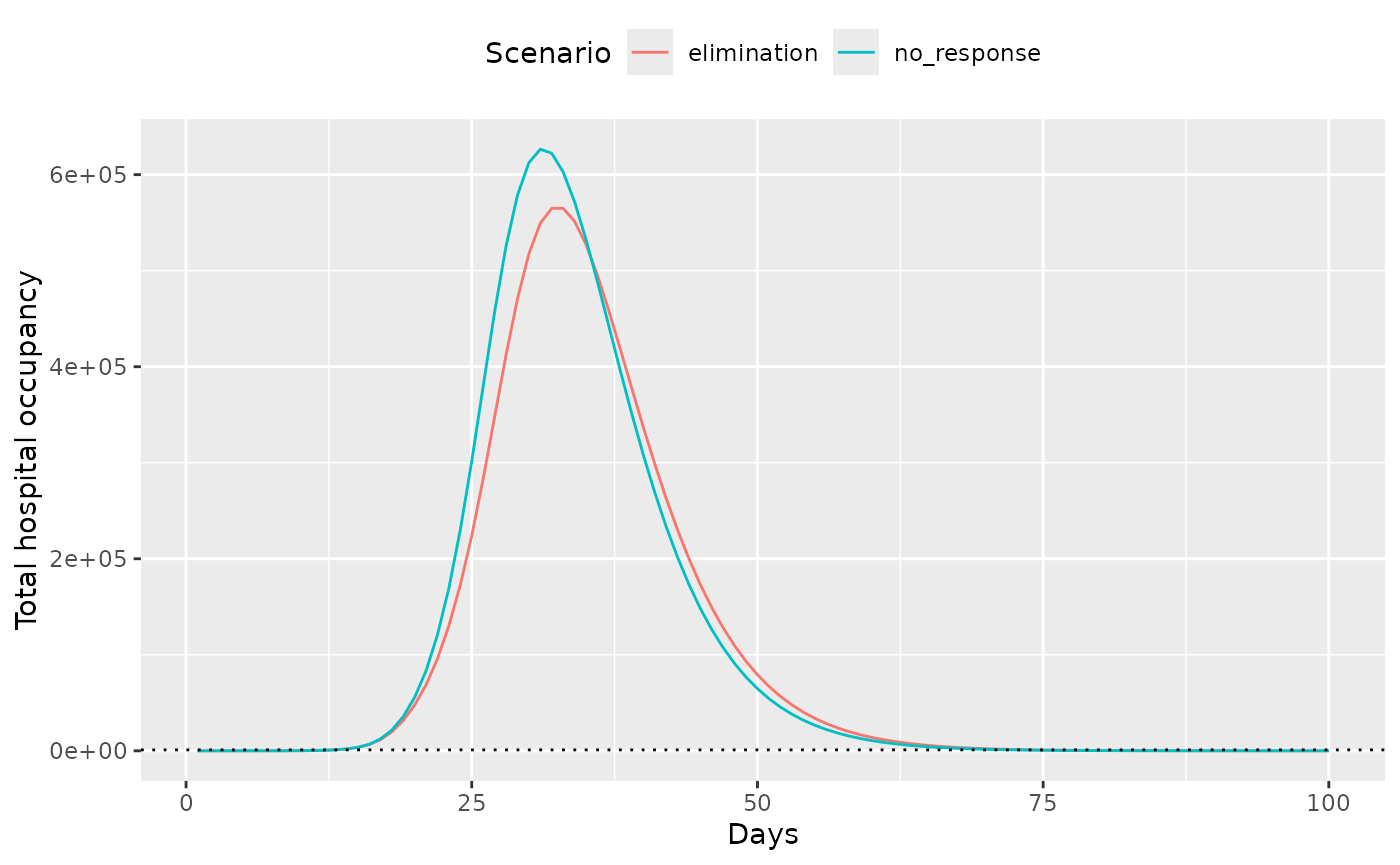
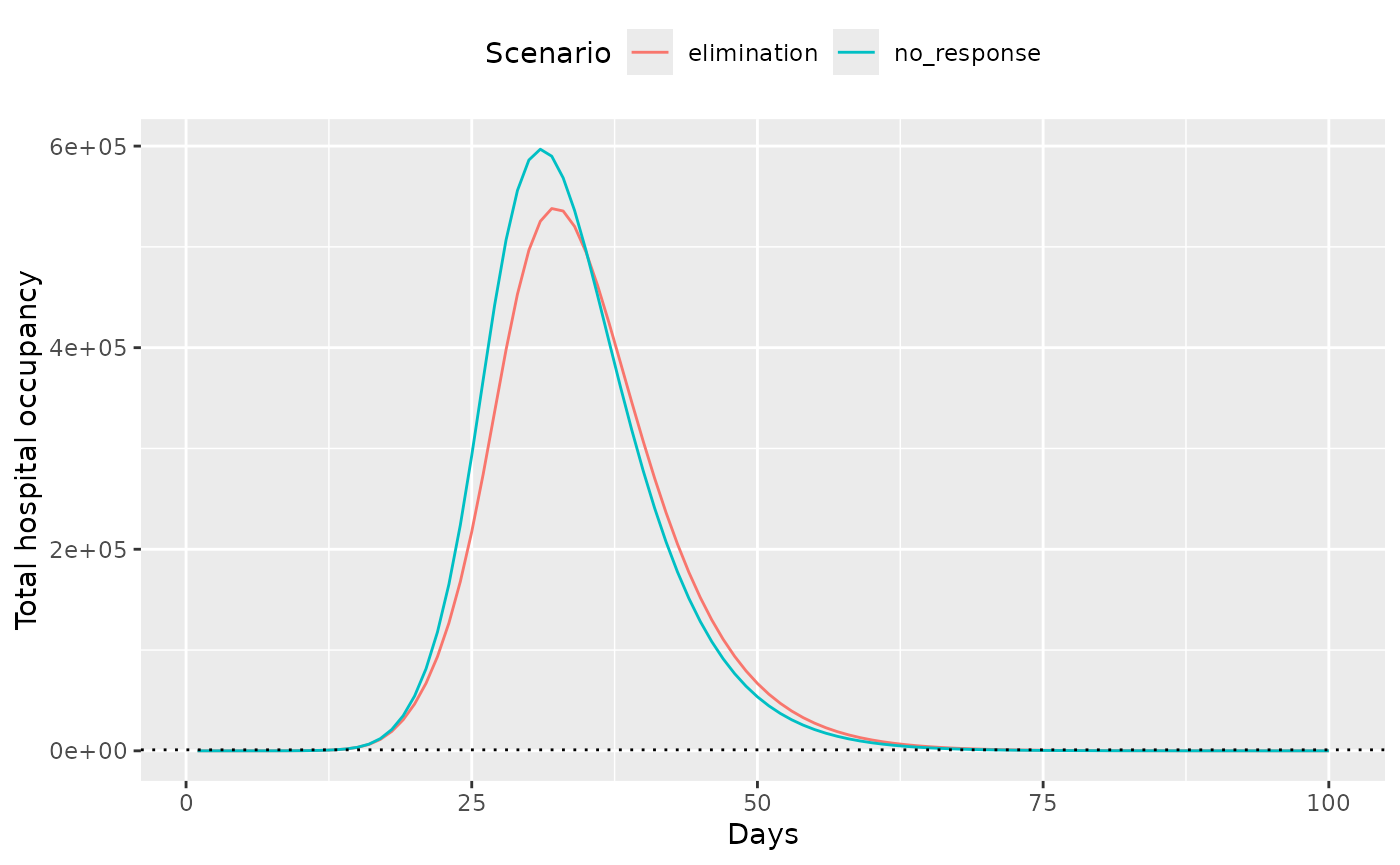
Deploying to gh-pages from @ jameel-institute/daedalus@c735ce2afaa144fed06050106aec704272ff0008 🚀

diff --git a/reference/get_costs.html b/reference/get_costs.html
@@ -7,7 +7,7 @@
 
     <a class="navbar-brand me-2" href="../index.html">daedalus</a>
 
-    <small class="nav-text text-muted me-auto" data-bs-toggle="tooltip" data-bs-placement="bottom" title="Released version">0.0.7</small>
+    <small class="nav-text text-muted me-auto" data-bs-toggle="tooltip" data-bs-placement="bottom" title="Released version">0.0.8</small>
 
 
     <button class="navbar-toggler" type="button" data-bs-toggle="collapse" data-bs-target="#navbar" aria-controls="navbar" aria-expanded="false" aria-label="Toggle navigation">
@@ -111,37 +111,37 @@ to have the same value.</p>
 <span class="r-in"><span></span></span>
 <span class="r-in"><span><span class="fu">get_costs</span><span class="op">(</span><span class="va">output</span><span class="op">)</span></span></span>
 <span class="r-out co"><span class="r-pr">#&gt;</span> $total_cost</span>
-<span class="r-out co"><span class="r-pr">#&gt;</span> [1] 739497.9</span>
+<span class="r-out co"><span class="r-pr">#&gt;</span> [1] 1080754</span>
 <span class="r-out co"><span class="r-pr">#&gt;</span> </span>
 <span class="r-out co"><span class="r-pr">#&gt;</span> $economic_costs</span>
 <span class="r-out co"><span class="r-pr">#&gt;</span> $economic_costs$economic_cost_total</span>
-<span class="r-out co"><span class="r-pr">#&gt;</span> [1] 18528.34</span>
+<span class="r-out co"><span class="r-pr">#&gt;</span> [1] 20582.91</span>
 <span class="r-out co"><span class="r-pr">#&gt;</span> </span>
 <span class="r-out co"><span class="r-pr">#&gt;</span> $economic_costs$economic_cost_closures</span>
 <span class="r-out co"><span class="r-pr">#&gt;</span> [1] 0</span>
 <span class="r-out co"><span class="r-pr">#&gt;</span> </span>
 <span class="r-out co"><span class="r-pr">#&gt;</span> $economic_costs$economic_cost_absences</span>
-<span class="r-out co"><span class="r-pr">#&gt;</span> [1] 18528.34</span>
+<span class="r-out co"><span class="r-pr">#&gt;</span> [1] 20582.91</span>
 <span class="r-out co"><span class="r-pr">#&gt;</span> </span>
 <span class="r-out co"><span class="r-pr">#&gt;</span> </span>
 <span class="r-out co"><span class="r-pr">#&gt;</span> $education_costs</span>
 <span class="r-out co"><span class="r-pr">#&gt;</span> $education_costs$education_cost_total</span>
-<span class="r-out co"><span class="r-pr">#&gt;</span> [1] 1235.451</span>
+<span class="r-out co"><span class="r-pr">#&gt;</span> [1] 1372.606</span>
 <span class="r-out co"><span class="r-pr">#&gt;</span> </span>
 <span class="r-out co"><span class="r-pr">#&gt;</span> $education_costs$education_cost_closures</span>
 <span class="r-out co"><span class="r-pr">#&gt;</span> [1] 0</span>
 <span class="r-out co"><span class="r-pr">#&gt;</span> </span>
 <span class="r-out co"><span class="r-pr">#&gt;</span> $education_costs$education_cost_absences</span>
-<span class="r-out co"><span class="r-pr">#&gt;</span> [1] 1235.451</span>
+<span class="r-out co"><span class="r-pr">#&gt;</span> [1] 1372.606</span>
 <span class="r-out co"><span class="r-pr">#&gt;</span> </span>
 <span class="r-out co"><span class="r-pr">#&gt;</span> </span>
 <span class="r-out co"><span class="r-pr">#&gt;</span> $life_years_lost</span>
 <span class="r-out co"><span class="r-pr">#&gt;</span> $life_years_lost$life_years_lost_total</span>
-<span class="r-out co"><span class="r-pr">#&gt;</span> [1] 719734.1</span>
+<span class="r-out co"><span class="r-pr">#&gt;</span> [1] 1058799</span>
 <span class="r-out co"><span class="r-pr">#&gt;</span> </span>
 <span class="r-out co"><span class="r-pr">#&gt;</span> $life_years_lost$life_years_lost_age</span>
-<span class="r-out co"><span class="r-pr">#&gt;</span>       0-4      5-19     20-65       65+ </span>
-<span class="r-out co"><span class="r-pr">#&gt;</span>  97908.78 315774.09 235561.96  70489.30 </span>
+<span class="r-out co"><span class="r-pr">#&gt;</span>      0-4     5-19    20-65      65+ </span>
+<span class="r-out co"><span class="r-pr">#&gt;</span> 145010.9 466524.9 342897.1 104365.6 </span>
 <span class="r-out co"><span class="r-pr">#&gt;</span> </span>
 <span class="r-out co"><span class="r-pr">#&gt;</span> </span>
 </code></pre></div>

diff --git a/reference/class_country.html b/reference/class_country.html
@@ -15,7 +15,7 @@ characteristics for the DAEDALUS model."></head><body>
 
     <a class="navbar-brand me-2" href="../index.html">daedalus</a>
 
-    <small class="nav-text text-muted me-auto" data-bs-toggle="tooltip" data-bs-placement="bottom" title="Released version">0.0.7</small>
+    <small class="nav-text text-muted me-auto" data-bs-toggle="tooltip" data-bs-placement="bottom" title="Released version">0.0.8</small>
 
 
     <button class="navbar-toggler" type="button" data-bs-toggle="collapse" data-bs-target="#navbar" aria-controls="navbar" aria-expanded="false" aria-label="Toggle navigation">
@@ -117,6 +117,7 @@ object <code>x</code>. Called for printing side-effects.</p></li>
 <span class="r-out co"><span class="r-pr">#&gt;</span> 5-19  0.5104463 8.7459756 6.322175 0.7948344</span>
 <span class="r-out co"><span class="r-pr">#&gt;</span> 20-64 0.4351641 1.6376280 7.821398 1.0350292</span>
 <span class="r-out co"><span class="r-pr">#&gt;</span> 65+   0.1187166 0.7488765 3.639207 1.5142917</span>
+<span class="r-msg co"><span class="r-pr">#&gt;</span> Hospital capacity: <span style="color: #BB0000;">7989</span></span>
 <span class="r-in"><span></span></span>
 <span class="r-in"><span><span class="fu">daedalus_country</span><span class="op">(</span></span></span>
 <span class="r-in"><span>  <span class="st">"United Kingdom"</span>,</span></span>
@@ -131,6 +132,7 @@ object <code>x</code>. Called for printing side-effects.</p></li>
 <span class="r-out co"><span class="r-pr">#&gt;</span> [2,]    1    1    1    1</span>
 <span class="r-out co"><span class="r-pr">#&gt;</span> [3,]    1    1    1    1</span>
 <span class="r-out co"><span class="r-pr">#&gt;</span> [4,]    1    1    1    1</span>
+<span class="r-msg co"><span class="r-pr">#&gt;</span> Hospital capacity: <span style="color: #BB0000;">26219</span></span>
 <span class="r-in"><span></span></span>
 <span class="r-in"><span><span class="co"># check whether `x` is a &lt;country&gt; object</span></span></span>
 <span class="r-in"><span><span class="fu">is_daedalus_country</span><span class="op">(</span><span class="va">x</span><span class="op">)</span></span></span>
@@ -148,6 +150,7 @@ object <code>x</code>. Called for printing side-effects.</p></li>
 <span class="r-out co"><span class="r-pr">#&gt;</span> [2,]   99   99   99   99</span>
 <span class="r-out co"><span class="r-pr">#&gt;</span> [3,]   99   99   99   99</span>
 <span class="r-out co"><span class="r-pr">#&gt;</span> [4,]   99   99   99   99</span>
+<span class="r-msg co"><span class="r-pr">#&gt;</span> Hospital capacity: <span style="color: #BB0000;">7989</span></span>
 <span class="r-in"><span></span></span>
 <span class="r-in"><span><span class="co"># using assignment operators</span></span></span>
 <span class="r-in"><span><span class="va">x</span><span class="op">$</span><span class="va">contact_matrix</span> <span class="op">&lt;-</span> <span class="fu"><a href="https://rdrr.io/r/base/matrix.html" class="external-link">matrix</a></span><span class="op">(</span><span class="fl">99</span>, <span class="fl">4</span>, <span class="fl">4</span><span class="op">)</span></span></span>
@@ -161,6 +164,7 @@ object <code>x</code>. Called for printing side-effects.</p></li>
 <span class="r-out co"><span class="r-pr">#&gt;</span> [2,]   99   99   99   99</span>
 <span class="r-out co"><span class="r-pr">#&gt;</span> [3,]   99   99   99   99</span>
 <span class="r-out co"><span class="r-pr">#&gt;</span> [4,]   99   99   99   99</span>
+<span class="r-msg co"><span class="r-pr">#&gt;</span> Hospital capacity: <span style="color: #BB0000;">7989</span></span>
 </code></pre></div>
     </div>
   </main><aside class="col-md-3"><nav id="toc" aria-label="Table of contents"><h2>On this page</h2>

diff --git a/reference/set_data.html b/reference/set_data.html
@@ -13,7 +13,7 @@ this way."></head><body>
 
     <a class="navbar-brand me-2" href="../index.html">daedalus</a>
 
-    <small class="nav-text text-muted me-auto" data-bs-toggle="tooltip" data-bs-placement="bottom" title="Released version">0.0.7</small>
+    <small class="nav-text text-muted me-auto" data-bs-toggle="tooltip" data-bs-placement="bottom" title="Released version">0.0.8</small>
 
 
     <button class="navbar-toggler" type="button" data-bs-toggle="collapse" data-bs-target="#navbar" aria-controls="navbar" aria-expanded="false" aria-label="Toggle navigation">
@@ -98,6 +98,7 @@ parameters to be changed, with their new values. The only values allowed for
 <span class="r-out co"><span class="r-pr">#&gt;</span> 5-19  0.5131412 8.7339228 5.874591 0.7418483</span>
 <span class="r-out co"><span class="r-pr">#&gt;</span> 20-64 0.4670302 1.7476822 7.830182 1.0685802</span>
 <span class="r-out co"><span class="r-pr">#&gt;</span> 65+   0.1180517 0.7548304 3.531487 1.5212437</span>
+<span class="r-msg co"><span class="r-pr">#&gt;</span> Hospital capacity: <span style="color: #BB0000;">26219</span></span>
 <span class="r-in"><span></span></span>
 <span class="r-in"><span><span class="va">country_A</span> <span class="op">&lt;-</span> <span class="fu">set_data</span><span class="op">(</span><span class="va">country_A</span>, contact_matrix <span class="op">=</span> <span class="fu"><a href="https://rdrr.io/r/base/matrix.html" class="external-link">matrix</a></span><span class="op">(</span><span class="fl">1</span>, <span class="fl">4</span>, <span class="fl">4</span><span class="op">)</span><span class="op">)</span></span></span>
 <span class="r-in"><span><span class="va">country_A</span></span></span>
@@ -110,6 +111,7 @@ parameters to be changed, with their new values. The only values allowed for
 <span class="r-out co"><span class="r-pr">#&gt;</span> [2,]    1    1    1    1</span>
 <span class="r-out co"><span class="r-pr">#&gt;</span> [3,]    1    1    1    1</span>
 <span class="r-out co"><span class="r-pr">#&gt;</span> [4,]    1    1    1    1</span>
+<span class="r-msg co"><span class="r-pr">#&gt;</span> Hospital capacity: <span style="color: #BB0000;">26219</span></span>
 <span class="r-in"><span></span></span>
 <span class="r-in"><span><span class="va">disease_x</span> <span class="op">&lt;-</span> <span class="fu"><a href="class_infection.html">daedalus_infection</a></span><span class="op">(</span><span class="st">"sars_cov_1"</span><span class="op">)</span></span></span>
 <span class="r-in"><span><span class="va">disease_x</span> <span class="op">&lt;-</span> <span class="fu">set_data</span><span class="op">(</span><span class="va">disease_x</span>, r0 <span class="op">=</span> <span class="fl">3.0</span><span class="op">)</span></span></span>

diff --git a/reference/daedalus.html b/reference/daedalus.html
@@ -7,7 +7,7 @@
 
     <a class="navbar-brand me-2" href="../index.html">daedalus</a>
 
-    <small class="nav-text text-muted me-auto" data-bs-toggle="tooltip" data-bs-placement="bottom" title="Released version">0.0.7</small>
+    <small class="nav-text text-muted me-auto" data-bs-toggle="tooltip" data-bs-placement="bottom" title="Released version">0.0.8</small>
 
 
     <button class="navbar-toggler" type="button" data-bs-toggle="collapse" data-bs-target="#navbar" aria-controls="navbar" aria-expanded="false" aria-label="Toggle navigation">
@@ -51,7 +51,7 @@
 <span>  response_strategy <span class="op">=</span> <span class="fu"><a href="https://rdrr.io/r/base/c.html" class="external-link">c</a></span><span class="op">(</span><span class="st">"none"</span>, <span class="st">"elimination"</span>, <span class="st">"economic_closures"</span>, <span class="st">"school_closures"</span><span class="op">)</span>,</span>
 <span>  implementation_level <span class="op">=</span> <span class="fu"><a href="https://rdrr.io/r/base/c.html" class="external-link">c</a></span><span class="op">(</span><span class="st">"light"</span>, <span class="st">"heavy"</span><span class="op">)</span>,</span>
 <span>  response_time <span class="op">=</span> <span class="fl">30</span>,</span>
-<span>  response_threshold <span class="op">=</span> <span class="fl">1000</span>,</span>
+<span>  response_threshold <span class="op">=</span> <span class="cn">NULL</span>,</span>
 <span>  initial_state_manual <span class="op">=</span> <span class="fu"><a href="https://rdrr.io/r/base/list.html" class="external-link">list</a></span><span class="op">(</span><span class="op">)</span>,</span>
 <span>  time_end <span class="op">=</span> <span class="fl">300</span>,</span>
 <span>  <span class="va">...</span></span>
@@ -109,9 +109,10 @@ Defaults to 30 days.</p></dd>
 <dd><p>A single numeric value for the total number of
 hospitalisations that causes an epidemic response
 (specified by <code>response_strategy</code>) to be triggered, if it has not already
-been triggered via <code>response_time</code>. Currently defaults to 1000, which
-overrides the default response- and country-specific threshold values held in
-<a href="country_data.html">country_data</a>.</p></dd>
+been triggered via <code>response_time</code>. Currently defaults to <code>NULL</code>, and a
+<code>country</code>-specific spare hospital capacity value is used from
+<a href="country_data.html">country_data</a>.
+Pass a number to override the default country-specific threshold value.</p></dd>
 
 
 <dt id="arg-initial-state-manual">initial_state_manual<a class="anchor" aria-label="anchor" href="#arg-initial-state-manual"></a></dt>

diff --git a/news/index.html b/news/index.html
@@ -7,7 +7,7 @@
 
     <a class="navbar-brand me-2" href="../index.html">daedalus</a>
 
-    <small class="nav-text text-muted me-auto" data-bs-toggle="tooltip" data-bs-placement="bottom" title="Released version">0.0.7</small>
+    <small class="nav-text text-muted me-auto" data-bs-toggle="tooltip" data-bs-placement="bottom" title="Released version">0.0.8</small>
 
 
     <button class="navbar-toggler" type="button" data-bs-toggle="collapse" data-bs-target="#navbar" aria-controls="navbar" aria-expanded="false" aria-label="Toggle navigation">
@@ -38,6 +38,15 @@
       <small>Source: <a href="https://github.com/j-idea/daedalus/blob/main/NEWS.md" class="external-link"><code>NEWS.md</code></a></small>
     </div>
 
+    <div class="section level2">
+<h2 class="pkg-version" data-toc-text="0.0.8" id="daedalus-008">daedalus 0.0.8<a class="anchor" aria-label="anchor" href="#daedalus-008"></a></h2>
+<p>This patch adds hospital capacity data and two downstream effects.</p>
+<ol style="list-style-type: decimal"><li><p>Spare hospital capacity data raw data file has been added to <code>inst/extdata</code>. A processing script to generate an intermediate dataset has been added to <code>data-raw/</code>. The number of countries with available data has been reduced to 41.</p></li>
+<li><p><code>&lt;daedalus_country&gt;</code> class objects now provide spare capacity data.</p></li>
+<li><p>A call to <code><a href="../reference/daedalus.html">daedalus()</a></code> now takes the <code>response_threshold</code> from the <code>country</code>-specific hospital capacity by default. Users can still pass a custom value to override the package data.</p></li>
+<li><p>The model’s mortality rate <code>omega</code> is increased by <code>1.6x</code> when the total number of hospitalisations exceed the spare hospital capacity. This is implemented using a switch <code>hosp_switch</code> mutable parameter, and the switch activation and termination is rolled into the event functions that control closures.</p></li>
+<li><p>Added tests to check that hospital capacity has expected effect.</p></li>
+</ol></div>
     <div class="section level2">
 <h2 class="pkg-version" data-toc-text="0.0.7" id="daedalus-007">daedalus 0.0.7<a class="anchor" aria-label="anchor" href="#daedalus-007"></a></h2>
 <p>This patch adds functionality to calculate pandemic costs using the newly added function <code><a href="../reference/get_costs.html">get_costs()</a></code>. This patch also adds <code>life_value</code>, a list of country-wise, age-specific values of statistical life lost as package data.</p>

diff --git a/articles/daedalus.html b/articles/daedalus.html
@@ -20,7 +20,7 @@
 
     <a class="navbar-brand me-2" href="../index.html">daedalus</a>
 
-    <small class="nav-text text-muted me-auto" data-bs-toggle="tooltip" data-bs-placement="bottom" title="Released version">0.0.7</small>
+    <small class="nav-text text-muted me-auto" data-bs-toggle="tooltip" data-bs-placement="bottom" title="Released version">0.0.8</small>
 
 
     <button class="navbar-toggler" type="button" data-bs-toggle="collapse" data-bs-target="#navbar" aria-controls="navbar" aria-expanded="false" aria-label="Toggle navigation">
@@ -100,6 +100,7 @@ easily.</p>
 <span><span class="co">#&gt; 5-19  0.5104463 8.7459756 6.322175 0.7948344</span></span>
 <span><span class="co">#&gt; 20-64 0.4351641 1.6376280 7.821398 1.0350292</span></span>
 <span><span class="co">#&gt; 65+   0.1187166 0.7488765 3.639207 1.5142917</span></span>
+<span><span class="co">#&gt; Hospital capacity: <span style="color: #BB0000;">7989</span></span></span>
 <span></span>
 <span><span class="co"># make a &lt;daedalus_country&gt; representing Canada</span></span>
 <span><span class="co"># and modify contact patterns</span></span>
@@ -120,7 +121,8 @@ easily.</p>
 <span><span class="co">#&gt; [1,]    5    5    5    5</span></span>
 <span><span class="co">#&gt; [2,]    5    5    5    5</span></span>
 <span><span class="co">#&gt; [3,]    5    5    5    5</span></span>
-<span><span class="co">#&gt; [4,]    5    5    5    5</span></span></code></pre></div>
+<span><span class="co">#&gt; [4,]    5    5    5    5</span></span>
+<span><span class="co">#&gt; Hospital capacity: <span style="color: #BB0000;">7989</span></span></span></code></pre></div>
 <p>The package provides data from <span class="citation">Walker et al.
 (<a href="#ref-walker2020">2020</a>)</span> on country demography,
 country workforce per economic sector, and social contacts between age

diff --git a/reference/make_response_threshold_event.html b/reference/make_response_threshold_event.html
@@ -11,7 +11,7 @@ reduce disease transmission."></head><body>
 
     <a class="navbar-brand me-2" href="../index.html">daedalus</a>
 
-    <small class="nav-text text-muted me-auto" data-bs-toggle="tooltip" data-bs-placement="bottom" title="Released version">0.0.7</small>
+    <small class="nav-text text-muted me-auto" data-bs-toggle="tooltip" data-bs-placement="bottom" title="Released version">0.0.8</small>
 
 
     <button class="navbar-toggler" type="button" data-bs-toggle="collapse" data-bs-target="#navbar" aria-controls="navbar" aria-expanded="false" aria-label="Toggle navigation">
@@ -62,9 +62,10 @@ reduce disease transmission.</p>
 <dd><p>A single numeric value for the total number of
 hospitalisations that causes an epidemic response
 (specified by <code>response_strategy</code>) to be triggered, if it has not already
-been triggered via <code>response_time</code>. Currently defaults to 1000, which
-overrides the default response- and country-specific threshold values held in
-<a href="country_data.html">country_data</a>.</p></dd>
+been triggered via <code>response_time</code>. Currently defaults to <code>NULL</code>, and a
+<code>country</code>-specific spare hospital capacity value is used from
+<a href="country_data.html">country_data</a>.
+Pass a number to override the default country-specific threshold value.</p></dd>
 
 </dl></div>
 

diff --git a/authors.html b/authors.html
@@ -7,7 +7,7 @@
 
     <a class="navbar-brand me-2" href="index.html">daedalus</a>
 
-    <small class="nav-text text-muted me-auto" data-bs-toggle="tooltip" data-bs-placement="bottom" title="Released version">0.0.7</small>
+    <small class="nav-text text-muted me-auto" data-bs-toggle="tooltip" data-bs-placement="bottom" title="Released version">0.0.8</small>
 
 
     <button class="navbar-toggler" type="button" data-bs-toggle="collapse" data-bs-target="#navbar" aria-controls="navbar" aria-expanded="false" aria-label="Toggle navigation">
@@ -56,13 +56,13 @@
 
       <p>Gupte P (2024).
 <em>daedalus: Model health, social, and economic costs of a pandemic using _DAEDALUS_</em>.
-R package version 0.0.7, <a href="https://github.com/j-idea/daedalus" class="external-link">https://github.com/j-idea/daedalus</a>.
+R package version 0.0.8, <a href="https://github.com/j-idea/daedalus" class="external-link">https://github.com/j-idea/daedalus</a>.
 </p>
       <pre>@Manual{,
   title = {daedalus: Model health, social, and economic costs of a pandemic using _DAEDALUS_},
   author = {Pratik Gupte},
   year = {2024},
-  note = {R package version 0.0.7},
+  note = {R package version 0.0.8},
   url = {https://github.com/j-idea/daedalus},
 }</pre>
     </div>

diff --git a/reference/class_daedalus_output.html b/reference/class_daedalus_output.html
@@ -13,7 +13,7 @@ Print &amp;lt;daedalus_output&amp;gt; class objects"></head><body>
 
     <a class="navbar-brand me-2" href="../index.html">daedalus</a>
 
-    <small class="nav-text text-muted me-auto" data-bs-toggle="tooltip" data-bs-placement="bottom" title="Released version">0.0.7</small>
+    <small class="nav-text text-muted me-auto" data-bs-toggle="tooltip" data-bs-placement="bottom" title="Released version">0.0.8</small>
 
 
     <button class="navbar-toggler" type="button" data-bs-toggle="collapse" data-bs-target="#navbar" aria-controls="navbar" aria-expanded="false" aria-label="Toggle navigation">

diff --git a/reference/class_infection.html b/reference/class_infection.html
@@ -15,7 +15,7 @@ characteristics for the DAEDALUS model."></head><body>
 
     <a class="navbar-brand me-2" href="../index.html">daedalus</a>
 
-    <small class="nav-text text-muted me-auto" data-bs-toggle="tooltip" data-bs-placement="bottom" title="Released version">0.0.7</small>
+    <small class="nav-text text-muted me-auto" data-bs-toggle="tooltip" data-bs-placement="bottom" title="Released version">0.0.8</small>
 
 
     <button class="navbar-toggler" type="button" data-bs-toggle="collapse" data-bs-target="#navbar" aria-controls="navbar" aria-expanded="false" aria-label="Toggle navigation">

diff --git a/reference/model_constants.html b/reference/model_constants.html
@@ -11,7 +11,7 @@ specific to the epidemiological model."></head><body>
 
     <a class="navbar-brand me-2" href="../index.html">daedalus</a>
 
-    <small class="nav-text text-muted me-auto" data-bs-toggle="tooltip" data-bs-placement="bottom" title="Released version">0.0.7</small>
+    <small class="nav-text text-muted me-auto" data-bs-toggle="tooltip" data-bs-placement="bottom" title="Released version">0.0.8</small>
 
 
     <button class="navbar-toggler" type="button" data-bs-toggle="collapse" data-bs-target="#navbar" aria-controls="navbar" aria-expanded="false" aria-label="Toggle navigation">

diff --git a/reference/closure_data.html b/reference/closure_data.html
@@ -13,7 +13,7 @@ implementation ("heavy" and "light").'></head><body>
 
     <a class="navbar-brand me-2" href="../index.html">daedalus</a>
 
-    <small class="nav-text text-muted me-auto" data-bs-toggle="tooltip" data-bs-placement="bottom" title="Released version">0.0.7</small>
+    <small class="nav-text text-muted me-auto" data-bs-toggle="tooltip" data-bs-placement="bottom" title="Released version">0.0.8</small>
 
 
     <button class="navbar-toggler" type="button" data-bs-toggle="collapse" data-bs-target="#navbar" aria-controls="navbar" aria-expanded="false" aria-label="Toggle navigation">
